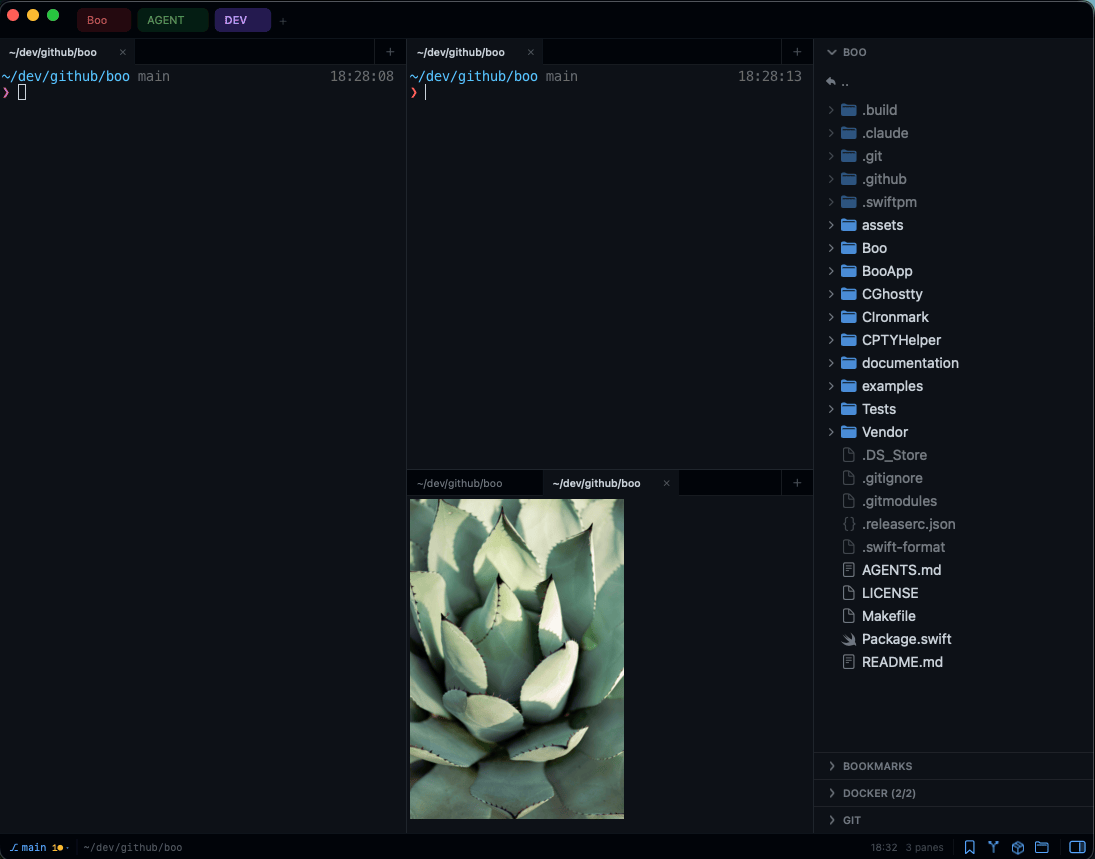
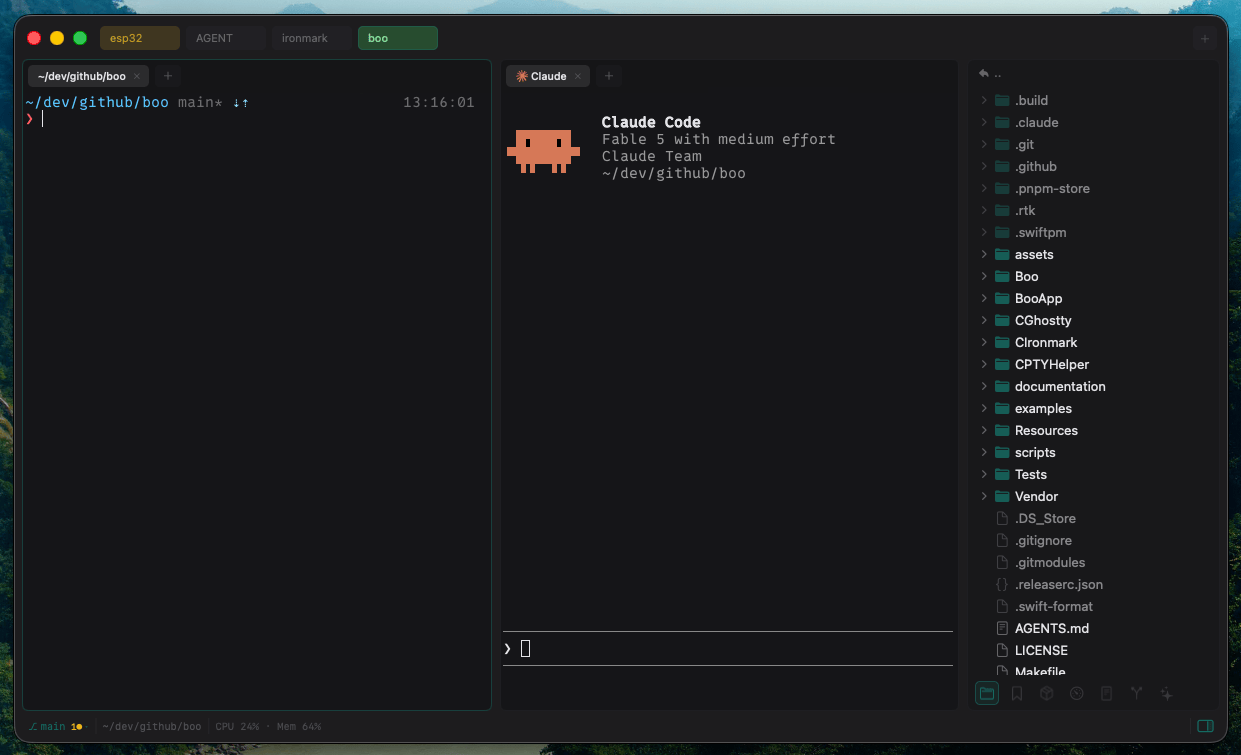
fix: documentation update

Changed region(s): [[0.0, 0.0, 1.0, 1.0], [0.4037, 0.1523, 0.6521, 0.2437]]

diff --git a/documentation/vocs.config.ts b/documentation/vocs.config.ts
@@ -26,6 +26,10 @@ export default defineConfig({
       link: '/keyboard-shortcuts',
     },
     {
+      text: 'Remote Control',
+      link: '/remote-control',
+    },
+    {
       text: 'Architecture',
       items: [
         {

diff --git a/README.md b/README.md
@@ -27,13 +27,15 @@ Download the latest release from [GitHub Releases](https://github.com/ph1p/boo/r
 - **File explorer** — Live-updating sidebar with file tree (Cmd+B to toggle)
 - **32 color themes** — Catppuccin (all 4), Tokyo Night, Dracula, Nord, Solarized (dark/light), Gruvbox (dark/light), One Dark/Light, Rosé Pine, Kanagawa, Everforest (dark/light), GitHub (dark/light), Ayu (dark/light), Cobalt2, Horizon Dark, Material (dark/light), Monokai, Moonlight, Night Owl, Palenight, Synthwave '84, Default (dark/light)
 - **Custom themes** — Create your own themes with a full color picker editor
-- **AI agent monitor** — Auto-detects Claude, Aider, Cursor, Copilot sessions with config/diff overview
-- **Remote explorer** — Auto-detects SSH sessions, shows remote file tree
+- **Multi-content tabs** — Tabs can host a terminal, browser (Cmd+Shift+T), text editor, image viewer, or markdown preview
+- **Agent Center** — Auto-detects Claude Code, Codex, OpenCode, and other AI CLI sessions with config/diff overview
+- **Remote explorer** — Auto-detects SSH/Mosh, container (docker, podman, kubectl, …), VM, and device shells; shows the remote file tree
+- **Remote control** — Optional token-protected web UI to control Boo from any device on your LAN (Terminal → Start Remote Control Server)
 - **Git integration** — Branch name in status bar, clickable branch switcher with local + remote branches
 - **Running process** — Status bar shows the foreground process (zsh, node, vim, etc.)
 - **Customizable** — Font, cursor style, status bar segments, explorer settings
 - **Workspace colors** — Preset or custom colors per workspace, pinning, renaming
-- **Undo** — Cmd+Z reopens closed tabs and panes
+- **Reopen closed tabs** — Cmd+Opt+Z reopens closed tabs and panes
 - **Mouse selection** — Click, double-click (word), triple-click (line)
 - **Signed auto-updater** — Sparkle-based updates with appcast metadata on GitHub Pages and release archives on GitHub Releases
 - **Focus memory** — Remembers last focused pane per workspace, restores on switch
@@ -87,16 +89,19 @@ make run      # Build and launch
 | **Cmd+N**       | New workspace (home directory)       |
 | **Cmd+1-9**     | Switch to workspace N                |
 | **Cmd+Shift+O** | Open folder as workspace             |
-| **Cmd+T**       | New tab in active pane               |
-| **Cmd+Opt+1-9** | Switch to tab N in active pane       |
+| **Cmd+T**       | New terminal tab in active pane      |
+| **Cmd+Shift+T** | New browser tab                      |
+| **Cmd+Opt+1-9** or **Cmd+Shift+1-9** | Switch to tab N in active pane |
 | **Cmd+W**       | Smart close (tab → pane → workspace) |
-| **Cmd+Z**       | Reopen closed tab/pane               |
+| **Cmd+Opt+Z**   | Reopen closed tab/pane               |
+| **Cmd+S**       | Save (editor tabs)                   |
 | **Cmd+Shift+W** | Close pane                           |
 | **Cmd+D**       | Split right                          |
 | **Cmd+Shift+D** | Split down                           |
-| **Cmd+]**       | Focus next pane                      |
-| **Cmd+[**       | Focus previous pane                  |
+| **Cmd+]** or **Cmd+Opt+→** | Focus next pane           |
+| **Cmd+[** or **Cmd+Opt+←** | Focus previous pane       |
 | **Cmd+B**       | Toggle file explorer                 |
+| **Cmd+F**       | Find                                 |
 | **Cmd+K**       | Clear screen                         |
 | **Cmd+Shift+K** | Clear scrollback                     |
 | **Cmd++**       | Increase font size                   |
@@ -105,7 +110,7 @@ make run      # Build and launch
 | **Cmd+C**       | Copy selection                       |
 | **Cmd+V**       | Paste                                |
 | **Cmd+A**       | Select all                           |
-| **Cmd+Return**  | Toggle full screen                   |
+| **Cmd+Return** or **Cmd+Ctrl+F** | Toggle full screen  |
 | **Cmd+Ctrl+=**  | Equalize split sizes                 |
 | **Cmd+Shift+B** | Bookmark current directory           |
 | **Ctrl+1-9**    | Jump to bookmark N                   |
@@ -121,7 +126,7 @@ Boo/
   Models/           Workspace, Pane (+ TabState), SplitTree, AppSettings, Theme
   Plugin/           Core plugin framework (protocol, registry, runtime, DSL, watcher)
     ViewDSL/        DSL parser, renderer, elements, action handler
-  Plugins/          One directory per plugin (FileTree/, RemoteExplorer/, Git/, ClaudeCode/, Docker/, Bookmarks/, Snippets/, SystemInfo/, Debug/)
+  Plugins/          One directory per plugin (FileTree/, RemoteExplorer/, Git/, Agents/, Docker/, Bookmarks/, Snippets/, SystemInfo/, Debug/)
   Views/            App-level views (PaneView, StatusBarView, ToolbarView, SettingsWindow, AboutWindow, etc.)
   Services/         Shared infrastructure (TerminalBridge, RemoteExplorer, BooSocketServer, SparkleUpdater, etc.)
 CGhostty/           C module wrapping ghostty.h
@@ -173,7 +178,7 @@ Three layers of state:
 │  ┌────────▼───────────┐              v                              │
 │  │ GhosttyRuntime     │   ┌──────────────────────────────────┐      │
 │  │ GhosttyView        │   │ Plugins                          │      │
-│  │ (Metal surface)    │   │ FileTree  Git      ClaudeCode    │      │
+│  │ (Metal surface)    │   │ FileTree  Git      Agents        │      │
 │  │                    │   │ Remote    Docker   Bookmarks     │      │
 │  │ OSC 7 (CWD)       │   │ System    Debug    [External]    │      │
 │  │ OSC 2 (title)      │   └──────────────────────────────────┘      │
@@ -351,7 +356,7 @@ Boo has an extensible plugin system. Plugins provide sidebar panels, status bar 
 | **Files (Local)**  | `Plugins/FileTree/`       | Local file explorer with FSEvents watching (visible in local sessions)   |
 | **Files (Remote)** | `Plugins/RemoteExplorer/` | Remote file explorer for SSH/MOSH sessions                               |
 | **Git**            | `Plugins/Git/`            | Branch, status, staged/unstaged/untracked files, stash, ahead/behind     |
-| **Claude Code**    | `Plugins/ClaudeCode/`     | Claude Code AI assistant with sessions, config, hooks, skills, diffs     |
+| **Agents**         | `Plugins/Agents/`         | Agent Center for Claude Code, Codex, OpenCode — sessions, config, diffs  |
 | **Snippets**       | `Plugins/Snippets/`       | Saved code snippets with syntax highlighting and quick insertion         |
 | **Docker**         | `Plugins/Docker/`         | Running container list with exec, logs, start/stop/restart actions       |
 | **Bookmarks**      | `Plugins/Bookmarks/`      | Saved directory bookmarks with per-host namespacing                      |
@@ -474,6 +479,16 @@ Available: `.cwdChanged`, `.processChanged`, `.remoteSessionChanged`, `.focusCha
 
 See [AGENTS.md](AGENTS.md) for detailed protocol reference and architecture.
 
+## Remote Control
+
+Boo can serve a small web UI to control the terminal from another device on your LAN (e.g. a phone or tablet). Start it via **Terminal → Start Remote Control Server** — Boo shows a URL containing a per-session token; open it on any device in your network.
+
+- Live screen view rendered in the browser, text/key input, workspace/tab/pane switching
+- Every API request requires the session token (`Authorization: Bearer`); the token is regenerated on each start and travels only in the URL fragment
+- Configurable port in settings; **Terminal → Copy Remote Control URL** to re-share
+
+> Anyone with the URL can control your terminal — treat the link like a password.
+
 ## Auto-Update
 
 Boo uses Sparkle for update checks and installation. You can trigger a manual check via **Boo → Check for Updates...**
@@ -487,13 +502,15 @@ Releases are automated via [semantic-release](https://github.com/semantic-releas
 Open with **Cmd+,**. Organized in tabs:
 
 - **General** — Core editor and file-opening preferences
-- **Theme** — 32 built-in color themes with live preview swatches, custom theme editor
-- **Terminal** — Font, font size, cursor style (block/beam/underline/outline)
-- **Explorer** — Font, font size, show header/icons/hidden files
+- **Theme** — 32 built-in color themes with live preview swatches, custom theme editor (whole UI restyles live while editing)
+- **Appearance** — Terminal and sidebar fonts, font sizes, cursor style (block/beam/underline/outline)
 - **Status Bar** — Toggle git branch, path, running process, pane count, clock
-- **Layout** — Sidebar width, pane divider style
+- **Layout** — Sidebar position, workspace bar position, tab overflow mode
+- **Editor** — Built-in text editor preferences
+- **Browser** — Browser tab history and behavior
+- **Notifications** — Notification preferences
 - **Plugins** — Enable/disable plugins, per-plugin settings
-- **Shortcuts** — Reference of all keyboard shortcuts
+- **Shortcuts** — Searchable reference of all keyboard shortcuts
 
 ## Tests
 

diff --git a/AGENTS.md b/AGENTS.md
@@ -45,7 +45,7 @@ Boo/                  Library target (all app code)
 BooApp/               Executable entry point (just calls BooMain.run())
 CGhostty/             C module wrapping ghostty.h
 CIronmark/            C module wrapping ironmark (Rust markdown parser)
-Tests/BooTests/       1072 tests
+Tests/BooTests/       1100+ tests
 documentation/        Vocs documentation site
 ```
 
@@ -221,8 +221,8 @@ Settings window (`Boo/Views/SettingsWindow.swift`) uses a left sidebar + content
 ### Tab enum
 
 ```swift
-enum Tab: Equatable {
-    case general, theme, appearance, statusBar, layout, plugins, shortcuts
+enum Tab: Hashable {
+    case general, theme, appearance, statusBar, layout, editor, browser, notifications, plugins, shortcuts
     case pluginSettings(pluginID: String)  // per-plugin settings page
 }
 ```
